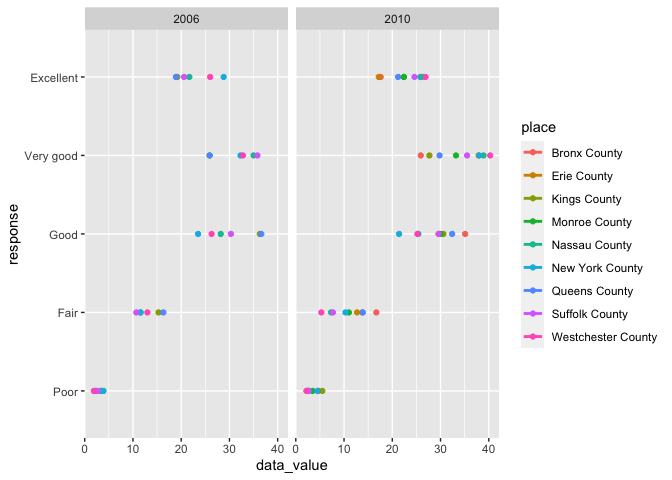
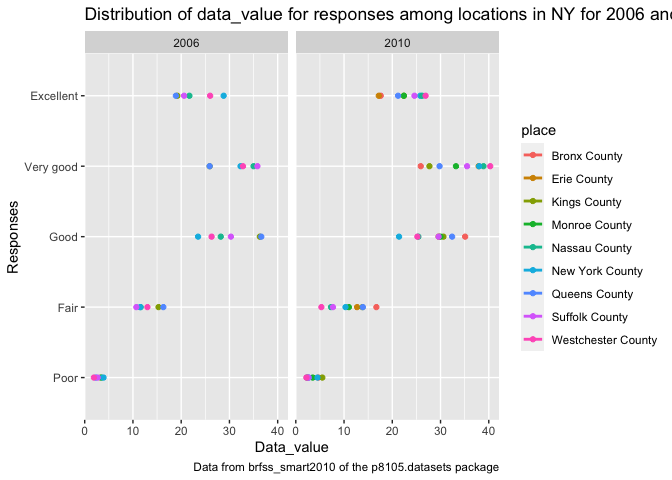
Almost done with problem 3

diff --git a/p8105_hw3_sc4935.md b/p8105_hw3_sc4935.md
@@ -349,7 +349,13 @@ two_panel_plot
 ggplot(two_panel_plot, aes(x = data_value, y = response, color = place)) + 
   geom_point(alpha = 1) +
   geom_smooth(se = FALSE) + 
-  facet_grid(. ~ year)
+  facet_grid(. ~ year) +
+  labs(
+    title = "Distribution of data_value for responses among locations in NY for 2006 and 2010",
+    x = "Data_value",
+    y = "Responses",
+    caption = "Data from brfss_smart2010 of the p8105.datasets package"
+  ) 
 ```
 
     ## `geom_smooth()` using method = 'loess' and formula 'y ~ x'
@@ -367,7 +373,21 @@ with reasonable variable classes. Describe the resulting dataset
 (e.g. what variables exist, how many observations, etc).
 
 ``` r
-accel_df = read_csv("./data/accel_data.csv")
+accel_df = read_csv("./data/accel_data.csv") %>% 
+  janitor::clean_names() %>% 
+  select(-day_id) %>% 
+  mutate(day = factor(day, levels = c("Monday", "Tuesday", "Wednesday", "Thursday", "Friday", "Saturday",  "Sunday"))) %>% 
+  arrange(week, day) %>% 
+  pivot_longer(
+    activity_1:activity_1440,
+    names_to = "counts", 
+    values_to = "activity") %>% 
+  mutate(weekday_vs_weekend = if_else(day == "Saturday" | day == "Sunday", "weekend", "weekday")) %>%
+  separate(counts, into = c("remove", "minutes"), sep = "_") %>% 
+  select(-remove) %>% 
+  mutate(week = as.character(week)) %>% 
+  mutate(minutes = as.numeric(minutes)) %>% 
+  view()
 ```
 
     ## Rows: 35 Columns: 1443
@@ -380,3 +400,67 @@ accel_df = read_csv("./data/accel_data.csv")
     ## 
     ## ℹ Use `spec()` to retrieve the full column specification for this data.
     ## ℹ Specify the column types or set `show_col_types = FALSE` to quiet this message.
+
+``` r
+accel_df  
+```
+
+    ## # A tibble: 50,400 × 5
+    ##    week  day    minutes activity weekday_vs_weekend
+    ##    <chr> <fct>    <dbl>    <dbl> <chr>             
+    ##  1 1     Monday       1        1 weekday           
+    ##  2 1     Monday       2        1 weekday           
+    ##  3 1     Monday       3        1 weekday           
+    ##  4 1     Monday       4        1 weekday           
+    ##  5 1     Monday       5        1 weekday           
+    ##  6 1     Monday       6        1 weekday           
+    ##  7 1     Monday       7        1 weekday           
+    ##  8 1     Monday       8        1 weekday           
+    ##  9 1     Monday       9        1 weekday           
+    ## 10 1     Monday      10        1 weekday           
+    ## # … with 50,390 more rows
+
+Traditional analyses of accelerometer data focus on the total activity
+over the day. Using your tidied dataset, aggregate accross minutes to
+create a total activity variable for each day, and create a table
+showing these totals. Are any trends apparent?
+
+``` r
+accel_df %>% 
+  group_by(week, day) %>% 
+  summarise(total_activity = sum(activity)) %>% 
+   pivot_wider(
+  names_from = "day", 
+  values_from = "total_activity") %>% 
+  view() %>% 
+  knitr::kable()
+```
+
+    ## `summarise()` has grouped output by 'week'. You can override using the `.groups` argument.
+
+| week |    Monday |  Tuesday | Wednesday | Thursday |   Friday | Saturday | Sunday |
+|:-----|----------:|---------:|----------:|---------:|---------:|---------:|-------:|
+| 1    |  78828.07 | 307094.2 |    340115 | 355923.6 | 480542.6 |   376254 | 631105 |
+| 2    | 295431.00 | 423245.0 |    440962 | 474048.0 | 568839.0 |   607175 | 422018 |
+| 3    | 685910.00 | 381507.0 |    468869 | 371230.0 | 467420.0 |   382928 | 467052 |
+| 4    | 409450.00 | 319568.0 |    434460 | 340291.0 | 154049.0 |     1440 | 260617 |
+| 5    | 389080.00 | 367824.0 |    445366 | 549658.0 | 620860.0 |     1440 | 138421 |
+
+Accelerometer data allows the inspection activity over the course of the
+day. Make a single-panel plot that shows the 24-hour activity time
+courses for each day and use color to indicate day of the week. Describe
+in words any patterns or conclusions you can make based on this graph.
+
+``` r
+accel_df %>% 
+  ggplot(aes(x = minutes, y = activity, color = day)) + 
+  geom_point(alpha = 0.5) +
+  labs(
+    title = "24-hour activity time courses for each day",
+    x = "Minutes of a day",
+    y = "Activity count",
+    caption = "Data from accel_data.csv"
+  ) 
+```
+
+![](p8105_hw3_sc4935_files/figure-gfm/unnamed-chunk-15-1.png)<!-- -->
